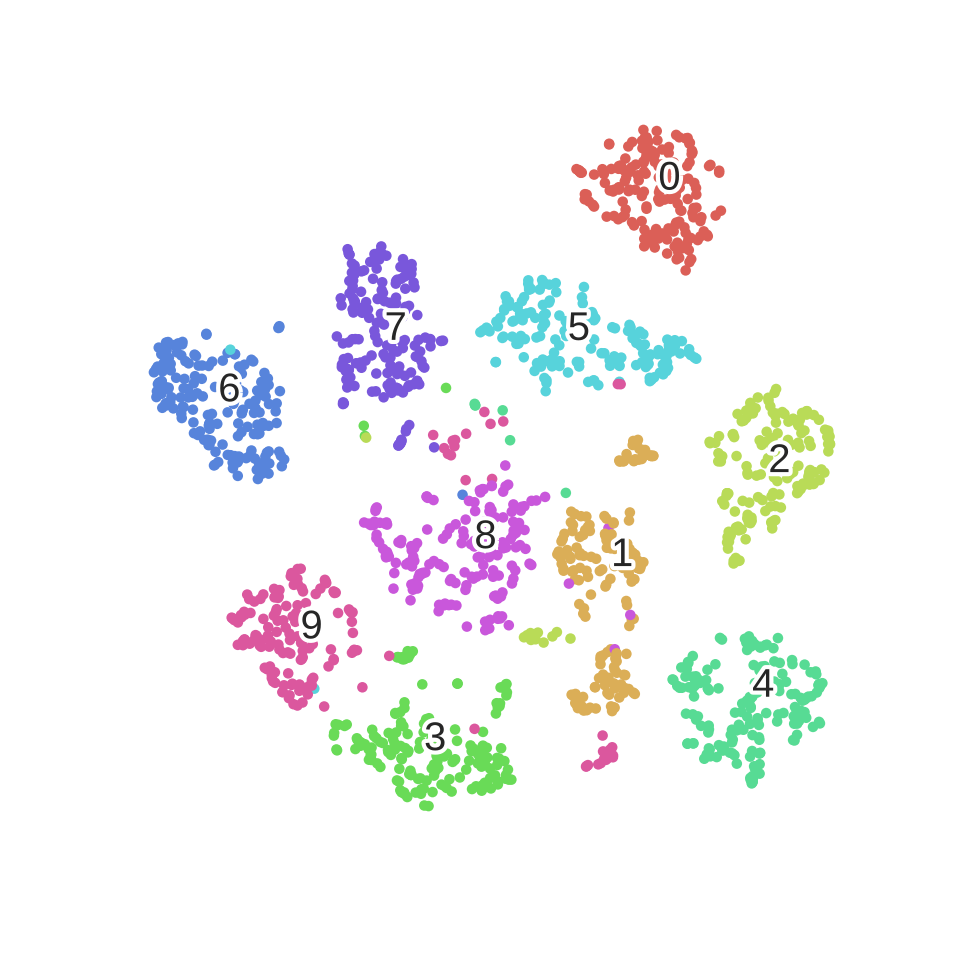
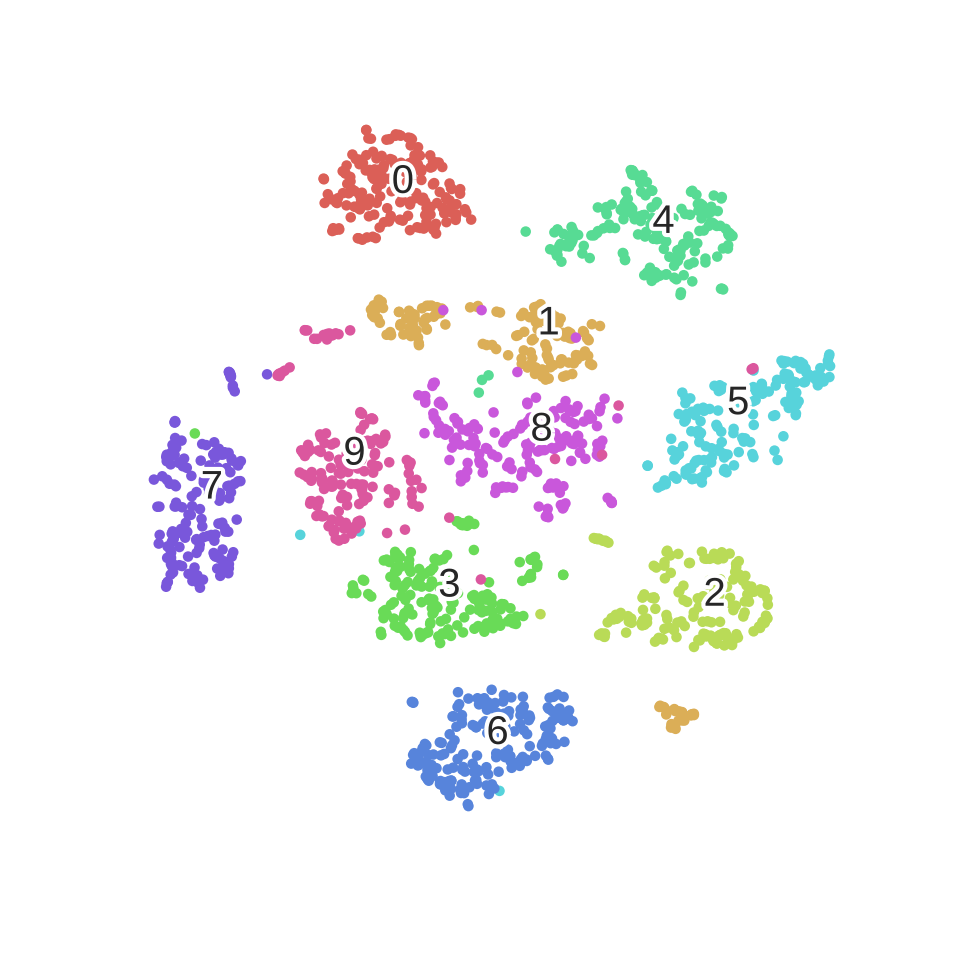
Updated images.

Changed region(s): [[0.1562, 0.125, 0.875, 0.8438], [0.2812, 0.3125, 0.3125, 0.3438]]

diff --git a/main.md b/main.md
@@ -49,7 +49,7 @@ import matplotlib
 import seaborn as sns
 sns.set_style('darkgrid')
 sns.set_palette('muted')
-sns.set_context("notebook", font_scale=1.5, 
+sns.set_context("notebook", font_scale=1.5,
                 rc={"lines.linewidth": 2.5})
 
 # We'll generate an animation with matplotlib and moviepy.
@@ -95,7 +95,17 @@ Now let's run the t-SNE algorithm on the dataset. It just takes one line with sc
 <pre data-code-language="python"
      data-executable="true"
      data-type="programlisting">
-digits_proj = TSNE(random_state=RS).fit_transform(digits.data)
+# We first reorder the data points according to the handwritten numbers.
+X = np.vstack([digits.data[digits.target==i]
+               for i in range(10)])
+y = np.hstack([digits.target[digits.target==i]
+               for i in range(10)])
+</pre>
+
+<pre data-code-language="python"
+     data-executable="true"
+     data-type="programlisting">
+digits_proj = TSNE(random_state=RS).fit_transform(X)
 </pre>
 
 Here is a utility function used to display the transformed dataset. The color of each point refers to the actual digit (of course, this information was not used by the dimensionality reduction algorithm).
@@ -136,7 +146,7 @@ Here is the result.
 <pre data-code-language="python"
      data-executable="true"
      data-type="programlisting">
-scatter(digits_proj, digits.target)
+scatter(digits_proj, y)
 plt.savefig('images/digits_tsne.png', dpi=120)
 </pre>
 
@@ -165,19 +175,6 @@ Now, we define the similarity as a symmetrized version of the conditional simila
 We obtain a **similarity matrix** for our original dataset. What does this matrix look like?
 
 ## Similarity matrix
-
-Before showing the matrix, let's reorder the data points according to the handwritten number.
-
-<pre data-code-language="python"
-     data-executable="true"
-     data-type="programlisting">
-# Dataset.
-X = np.vstack([digits.data[digits.target==i]
-               for i in range(10)])
-# Target (digit).
-y = np.hstack([digits.target[digits.target==i]
-               for i in range(10)])
-</pre>
 
 The following function computes the similarity with a constant <span class="math-tex" data-type="tex">\\(\sigma\\)</span>.
 
@@ -248,8 +245,16 @@ The final mapping is obtained when the equilibrium is reached.
 
 Here is an illustration of a dynamic graph layout based on a similar idea. Nodes are connected via springs and the system evolves according to law of physics (example by [Mike Bostock](http://bl.ocks.org/mbostock/4062045)).
 
-<iframe src="http://bl.ocks.org/rossant/raw/f06184034ba66a0bd06a/" 
+<iframe src="http://bl.ocks.org/rossant/raw/f06184034ba66a0bd06a/"
         style="border: 0; width: 620px; height: 440px; margin: 0; padding: 0;" />
+
+
+
+
+
+
+
+
 
 ## Algorithm
 
@@ -415,7 +420,7 @@ for i, D in enumerate((2, 5, 10)):
     ax.hist(norm(points, axis=1),
             bins=np.linspace(0., 1., 50))
     ax.set_title('D=%d' % D, loc='left')
-plt.savefig('images/spheres.png', dpi=100)
+plt.savefig('images/spheres.png', dpi=100, bbox_inches='tight')
 </pre>
 
 ![Spheres](images/spheres.png)
@@ -433,7 +438,7 @@ cauchy = 1/(1+z**2)
 plt.plot(z, gauss, label='Gaussian distribution')
 plt.plot(z, cauchy, label='Cauchy distribution')
 plt.legend()
-plt.savefig('images/distributions.png', dpi=120)
+plt.savefig('images/distributions.png', dpi=100)
 </pre>
 
 ![Gaussian and Cauchy distributions](images/distributions.png)
